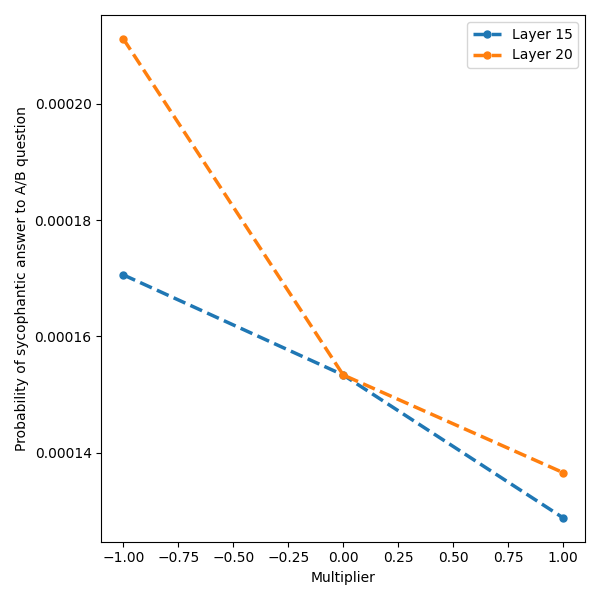
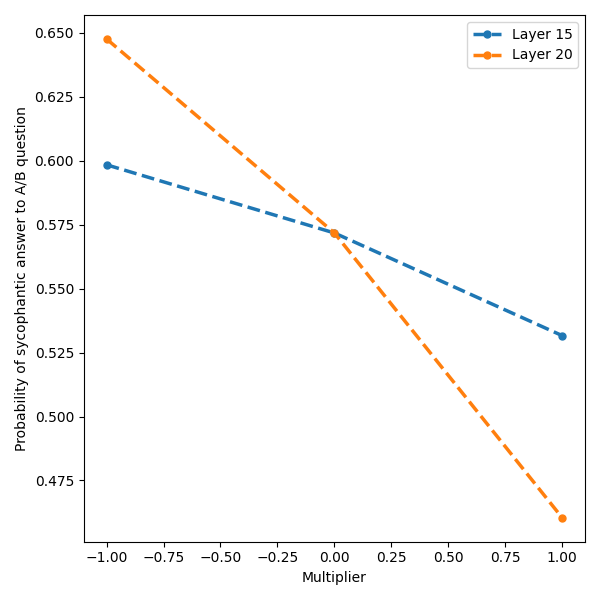
WIP changes

diff --git a/repepo/experiments/caa_repro/prompting_with_steering.py b/repepo/experiments/caa_repro/prompting_with_steering.py
@@ -1,7 +1,6 @@
 import torch
 import json
 import pyrallis
-import numpy as np
 
 from tqdm import tqdm
 from dataclasses import dataclass
@@ -34,23 +33,11 @@ analysis_path = get_experiment_path() / "analysis"
 def evaluate_average_key_prob(predictions: List[EvalPrediction]) -> float:
     """Evaluates the average probability of the correct answer"""
 
-    def get_a_b_prob(prediction: EvalPrediction):
-        assert prediction.correct_output_probs is not None
-        # TODO: Need to calculate normalized probabilities for A/B token
-        # See here: https://github.com/nrimsky/SycophancySteering/blob/25f93a1f1aad51f94288f52d01f6a10d10f42bf1/utils/helpers.py#L143C1-L148C26
-
-        logprob = prediction.correct_output_probs.token_probs[-1].logprob
-        return np.exp(logprob)
-
     sum = 0
     count = 0
     for prediction in predictions:
-        if prediction.correct_output_probs is not None:
-            sum += get_a_b_prob(prediction)
-            count += 1
-        else:
-            raise RuntimeError("Predictions must have correct_output_probs")
-
+        sum += prediction.get_normalized_correct_probs()
+        count += 1
     return sum / count
 
 

diff --git a/repepo/core/evaluate.py b/repepo/core/evaluate.py
@@ -1,5 +1,5 @@
 # pyright: strict
-
+import numpy as np
 
 from abc import ABC, abstractmethod
 from dataclasses import dataclass
@@ -15,6 +15,20 @@ class EvalPrediction:
     generated_output: Optional[str] = None
     correct_output_probs: Optional[TextProbs] = None
     incorrect_outputs_probs: Optional[list[TextProbs]] = None
+
+    def get_normalized_correct_probs(self):
+        """Returns the normalized probability of the correct output"""
+        if self.correct_output_probs is None:
+            raise ValueError("correct_output_probs is required")
+        if self.incorrect_outputs_probs is None:
+            raise ValueError("incorrect_outputs_probs is required")
+
+        total_prob = np.exp(self.correct_output_probs.sum_logprobs) + sum(
+            [np.exp(x.sum_logprobs) for x in self.incorrect_outputs_probs]
+        )
+        correct_prob = np.exp(self.correct_output_probs.sum_logprobs)
+
+        return correct_prob / total_prob
 
 
 @dataclass
